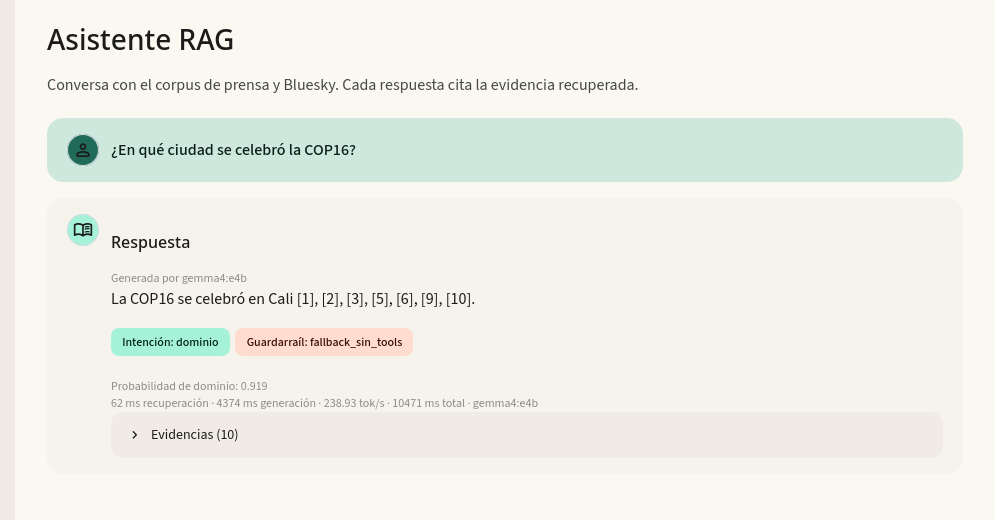
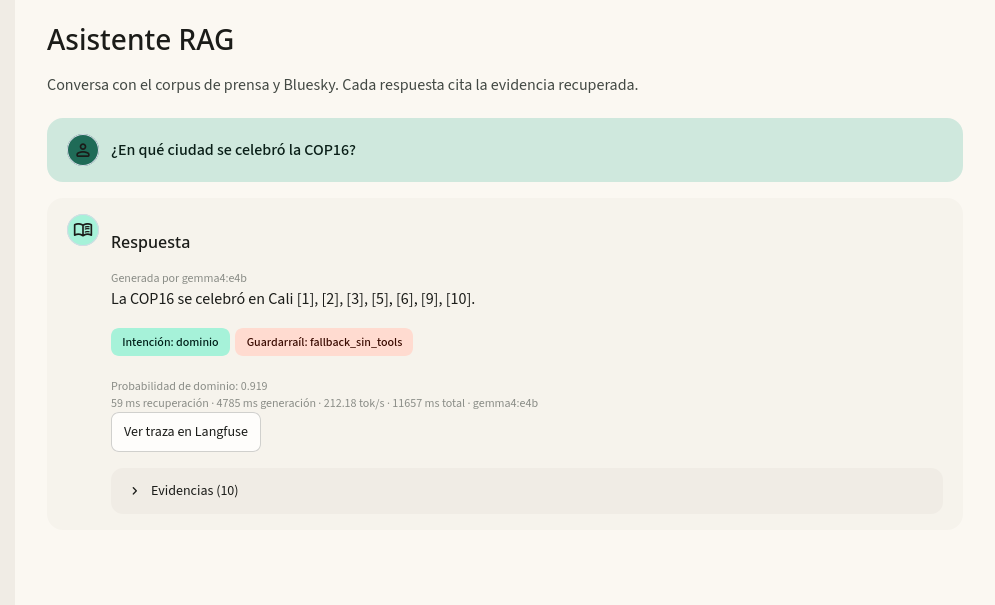
Enlaza Langfuse desde la interfaz y lo publica por el tunel

Changed region(s): [[0.0312, 0.1231, 0.9658, 0.8615], [0.0312, 0.0308, 0.2492, 0.0923]]

diff --git a/reports/articulo/secciones/11_reproducibilidad.tex b/reports/articulo/secciones/11_reproducibilidad.tex
@@ -88,16 +88,16 @@ CANDIDATE_GUARANTEE=0
 
 La aplicaci\'on qued\'o publicada en \url{https://tallerrag.hardwareelite.online} mediante un t\'unel de Cloudflare. El t\'unel \texttt{taller-rag} se cre\'o con la API de Cloudflare, con configuraci\'on remota y un solo ingress: el hostname p\'ublico apunta a \texttt{http://localhost:8501}, el puerto del frontend, y el resto de las rutas devuelve 404. El DNS es un CNAME proxied a \texttt{<id>.cfargotunnel.com}. El conector corre como un contenedor m\'as (\texttt{docker-compose.tunnel.yml}, red de host y \texttt{restart: unless-stopped}) y lee el token de \texttt{docker/cloudflared/.env}, que no se versiona. La p\'agina no tiene autenticaci\'on: es una demo abierta del taller, no un despliegue de producci\'on.
 
-La aplicaci\'on corre en la estaci\'on y el frontend habla con el API por \texttt{localhost:8010}; el API usa el Milvus y el Solr del servidor (\texttt{192.168.1.100}) y el generador y el embedding locales. Cloudflare publica solo el 8501, de modo que la API no queda expuesta. La Figura~\ref{fig:demo} muestra una consulta real hecha por la URL p\'ublica.
+La aplicaci\'on corre en la estaci\'on y el frontend habla con el API por \texttt{localhost:8010}; el API usa el Milvus y el Solr del servidor (\texttt{192.168.1.100}) y el generador y el embedding locales. Cloudflare publica dos hostnames: \texttt{tallerrag}, que sirve la interfaz, y \texttt{langfuse}, que sirve el panel de trazas; la API no queda expuesta. La barra lateral enlaza el panel y cada respuesta enlaza su propia traza. La Figura~\ref{fig:demo} muestra una consulta real hecha por la URL p\'ublica.
 
 \begin{figure*}[t]
 \centering
 \includegraphics[width=0.9\textwidth]{demo_publica.png}
-\caption{Demo p\'ublica: consulta real por \texttt{tallerrag.hardwareelite.online}. La respuesta cita siete de las diez evidencias recuperadas, la compuerta acepta la pregunta con probabilidad 0,919 y la interfaz muestra la ruta y la latencia. La primera consulta paga la carga del reordenador; en caliente, la misma pregunta tarda 4,5 s.}
+\caption{Demo p\'ublica: consulta real por \texttt{tallerrag.hardwareelite.online}. La respuesta cita siete de las diez evidencias recuperadas, la compuerta acepta la pregunta con probabilidad 0,919 y la interfaz muestra la ruta y la latencia. El bot\'on \textit{Ver traza en Langfuse} abre la traza de esa respuesta en el panel p\'ublico. La primera consulta paga la carga del reordenador; en caliente, la misma pregunta tarda 4,5 s.}
 \label{fig:demo}
 \end{figure*}
 
-La verificaci\'on fue: \texttt{curl} al hostname devuelve 200 con el HTML de Streamlit, el t\'unel registra cuatro conexiones QUIC y un navegador headless completa la pregunta y recibe la respuesta con citas. La primera consulta por la URL p\'ublica tarda 10,5 s porque carga el reordenador; con el modelo caliente, la misma pregunta tarda 4,5 s (60 ms de recuperaci\'on y el resto de generaci\'on).
+La verificaci\'on fue: \texttt{curl} al hostname devuelve 200 con el HTML de Streamlit, el t\'unel registra cuatro conexiones QUIC y un navegador headless completa la pregunta y recibe la respuesta con citas. La primera consulta por la URL p\'ublica tarda entre 10 y 12 s porque carga el reordenador; con el modelo caliente, la misma pregunta tarda 4,5 s (60 ms de recuperaci\'on y el resto de generaci\'on).
 
 \subsection{Observabilidad y grafo}
 

diff --git a/src/rag/ui.py b/src/rag/ui.py
@@ -11,6 +11,8 @@ import streamlit as st
 from src.rag.ui_prefs import DEFAULTS, read_prefs, write_prefs
 
 API = os.getenv("API_URL", "http://localhost:8010").rstrip("/")
+LANGFUSE_PUBLIC_URL = os.getenv("LANGFUSE_PUBLIC_URL", "").rstrip("/")
+LANGFUSE_PROJECT = os.getenv("LANGFUSE_PROJECT_ID", "taller-rag")
 DEFAULT_MODEL = "gemma4:e4b"
 EXAMPLE_POOL = [
     "¿Cuántos municipios reportaron el Retamo Espinoso?",
@@ -704,6 +706,10 @@ with st.sidebar:
         "**Citas.** Cada afirmación lleva un número entre corchetes. Si no hay cita, el sistema se abstiene.\n\n"
         "**Abstención.** Si la evidencia no responde, no inventa: devuelve el aviso y el motivo."
     )
+    if LANGFUSE_PUBLIC_URL:
+        st.divider()
+        st.markdown("### Observabilidad")
+        st.link_button("Abrir Langfuse", LANGFUSE_PUBLIC_URL, use_container_width=True)
 
 with st.container(key="appbar"):
     st.markdown("<h1 class='m3-headline'>Asistente RAG</h1>", unsafe_allow_html=True)
@@ -718,6 +724,16 @@ if "examples" not in st.session_state:
     st.session_state.examples = random.sample(EXAMPLE_POOL, 3)
 
 
+def render_trace_link(data: dict) -> None:
+    """Enlaza la traza de la respuesta en Langfuse, si hay URL pública."""
+    trace = data.get("trace_id")
+    if trace and LANGFUSE_PUBLIC_URL:
+        st.link_button(
+            "Ver traza en Langfuse",
+            f"{LANGFUSE_PUBLIC_URL}/project/{LANGFUSE_PROJECT}/traces/{trace}",
+        )
+
+
 def render_assistant(data: dict, position: int) -> None:
     if data.get("type") == "clarification":
         st.markdown("<h3 class='m3-card-title'>Aclaración necesaria</h3>", unsafe_allow_html=True)
@@ -727,6 +743,7 @@ def render_assistant(data: dict, position: int) -> None:
             if st.button(option.get("label", "Opción"), key=f"clar-{position}-{index}", use_container_width=True):
                 ask(option.get("query", ""), ambiguity_policy="off", skip_gate=True)
         st.caption("Elige una interpretación para responder con la evidencia de ese caso.")
+        render_trace_link(data)
         evidence = data.get("evidence", [])
         if evidence:
             with st.expander(f"Evidencias ({len(evidence)})"):
@@ -744,6 +761,7 @@ def render_assistant(data: dict, position: int) -> None:
         metrics.append(f"{data.get('total_ms', 0):.0f} ms total")
         metrics.append(str(data.get("model")))
         st.caption(" · ".join(metrics))
+        render_trace_link(data)
         evidence = data.get("evidence", [])
         if evidence:
             with st.expander(f"Evidencias ({len(evidence)})"):
@@ -790,6 +808,7 @@ def render_assistant(data: dict, position: int) -> None:
     metrics.append(f"{data.get('total_ms', 0):.0f} ms total")
     metrics.append(str(data.get("model")))
     st.caption(" · ".join(metrics))
+    render_trace_link(data)
     evidence = data.get("evidence", [])
     if evidence:
         with st.expander(f"Evidencias ({len(evidence)})"):
